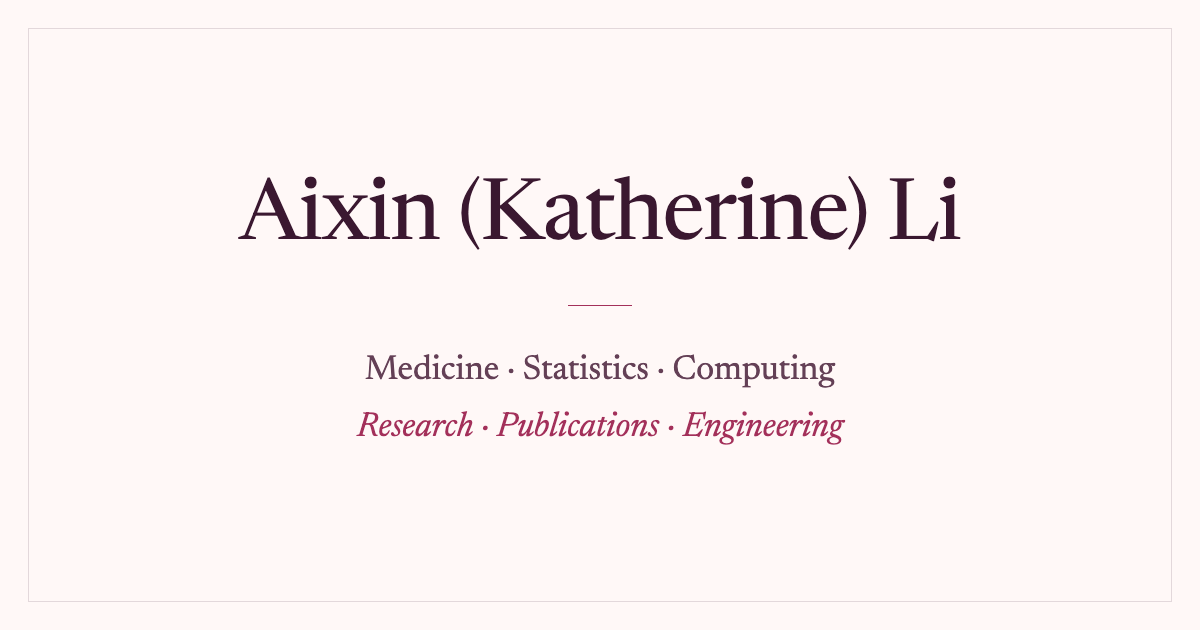
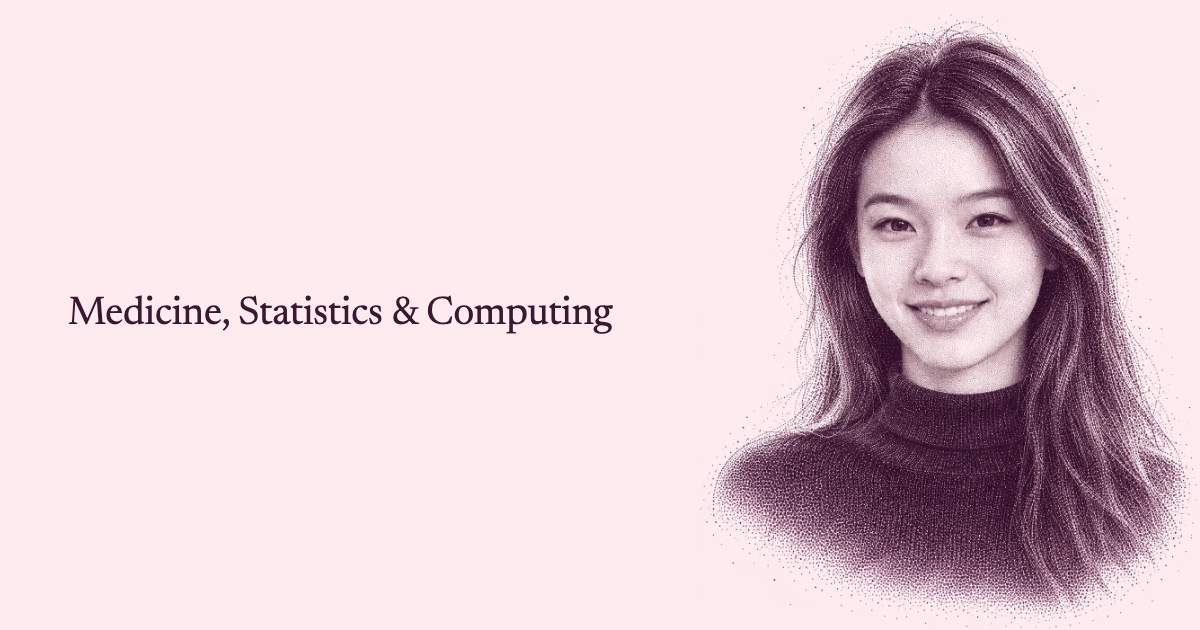
feat: portrait Open Graph image and shorter description
Claude-Session: https://claude.ai/code/session_019Xkmq2QyTArieVrkyJAb6g

Changed region(s): [[0.185, 0.0302, 1.0, 0.9952], [0.0617, 0.4524, 0.5242, 0.5429]]

diff --git a/index.html b/index.html
@@ -8,11 +8,11 @@
 <meta property="og:type" content="website">
 <meta property="og:url" content="https://katherine0723.github.io/aixinli/">
 <meta property="og:title" content="Aixin (Katherine) Li | Research &amp; Engineering">
-<meta property="og:description" content="Personal website covering my work in statistical genetics, multi-omics, clinical bioinformatics, machine learning, software engineering, and AI for human health.">
+<meta property="og:description" content="Statistical genetics, multi-omics, clinical bioinformatics, software engineering, and AI for human health.">
 <meta property="og:image" content="https://katherine0723.github.io/aixinli/og-image.png">
 <meta property="og:image:width" content="1200">
 <meta property="og:image:height" content="630">
-<meta property="og:image:alt" content="Aixin (Katherine) Li. Medicine, Statistics, Computing. Research, Publications, Engineering.">
+<meta property="og:image:alt" content="Stippled portrait of Aixin (Katherine) Li beside the line Medicine, Statistics &amp; Computing.">
 <meta name="twitter:card" content="summary_large_image">
 <link rel="icon" href="data:,">
 <link rel="preconnect" href="https://fonts.googleapis.com">
